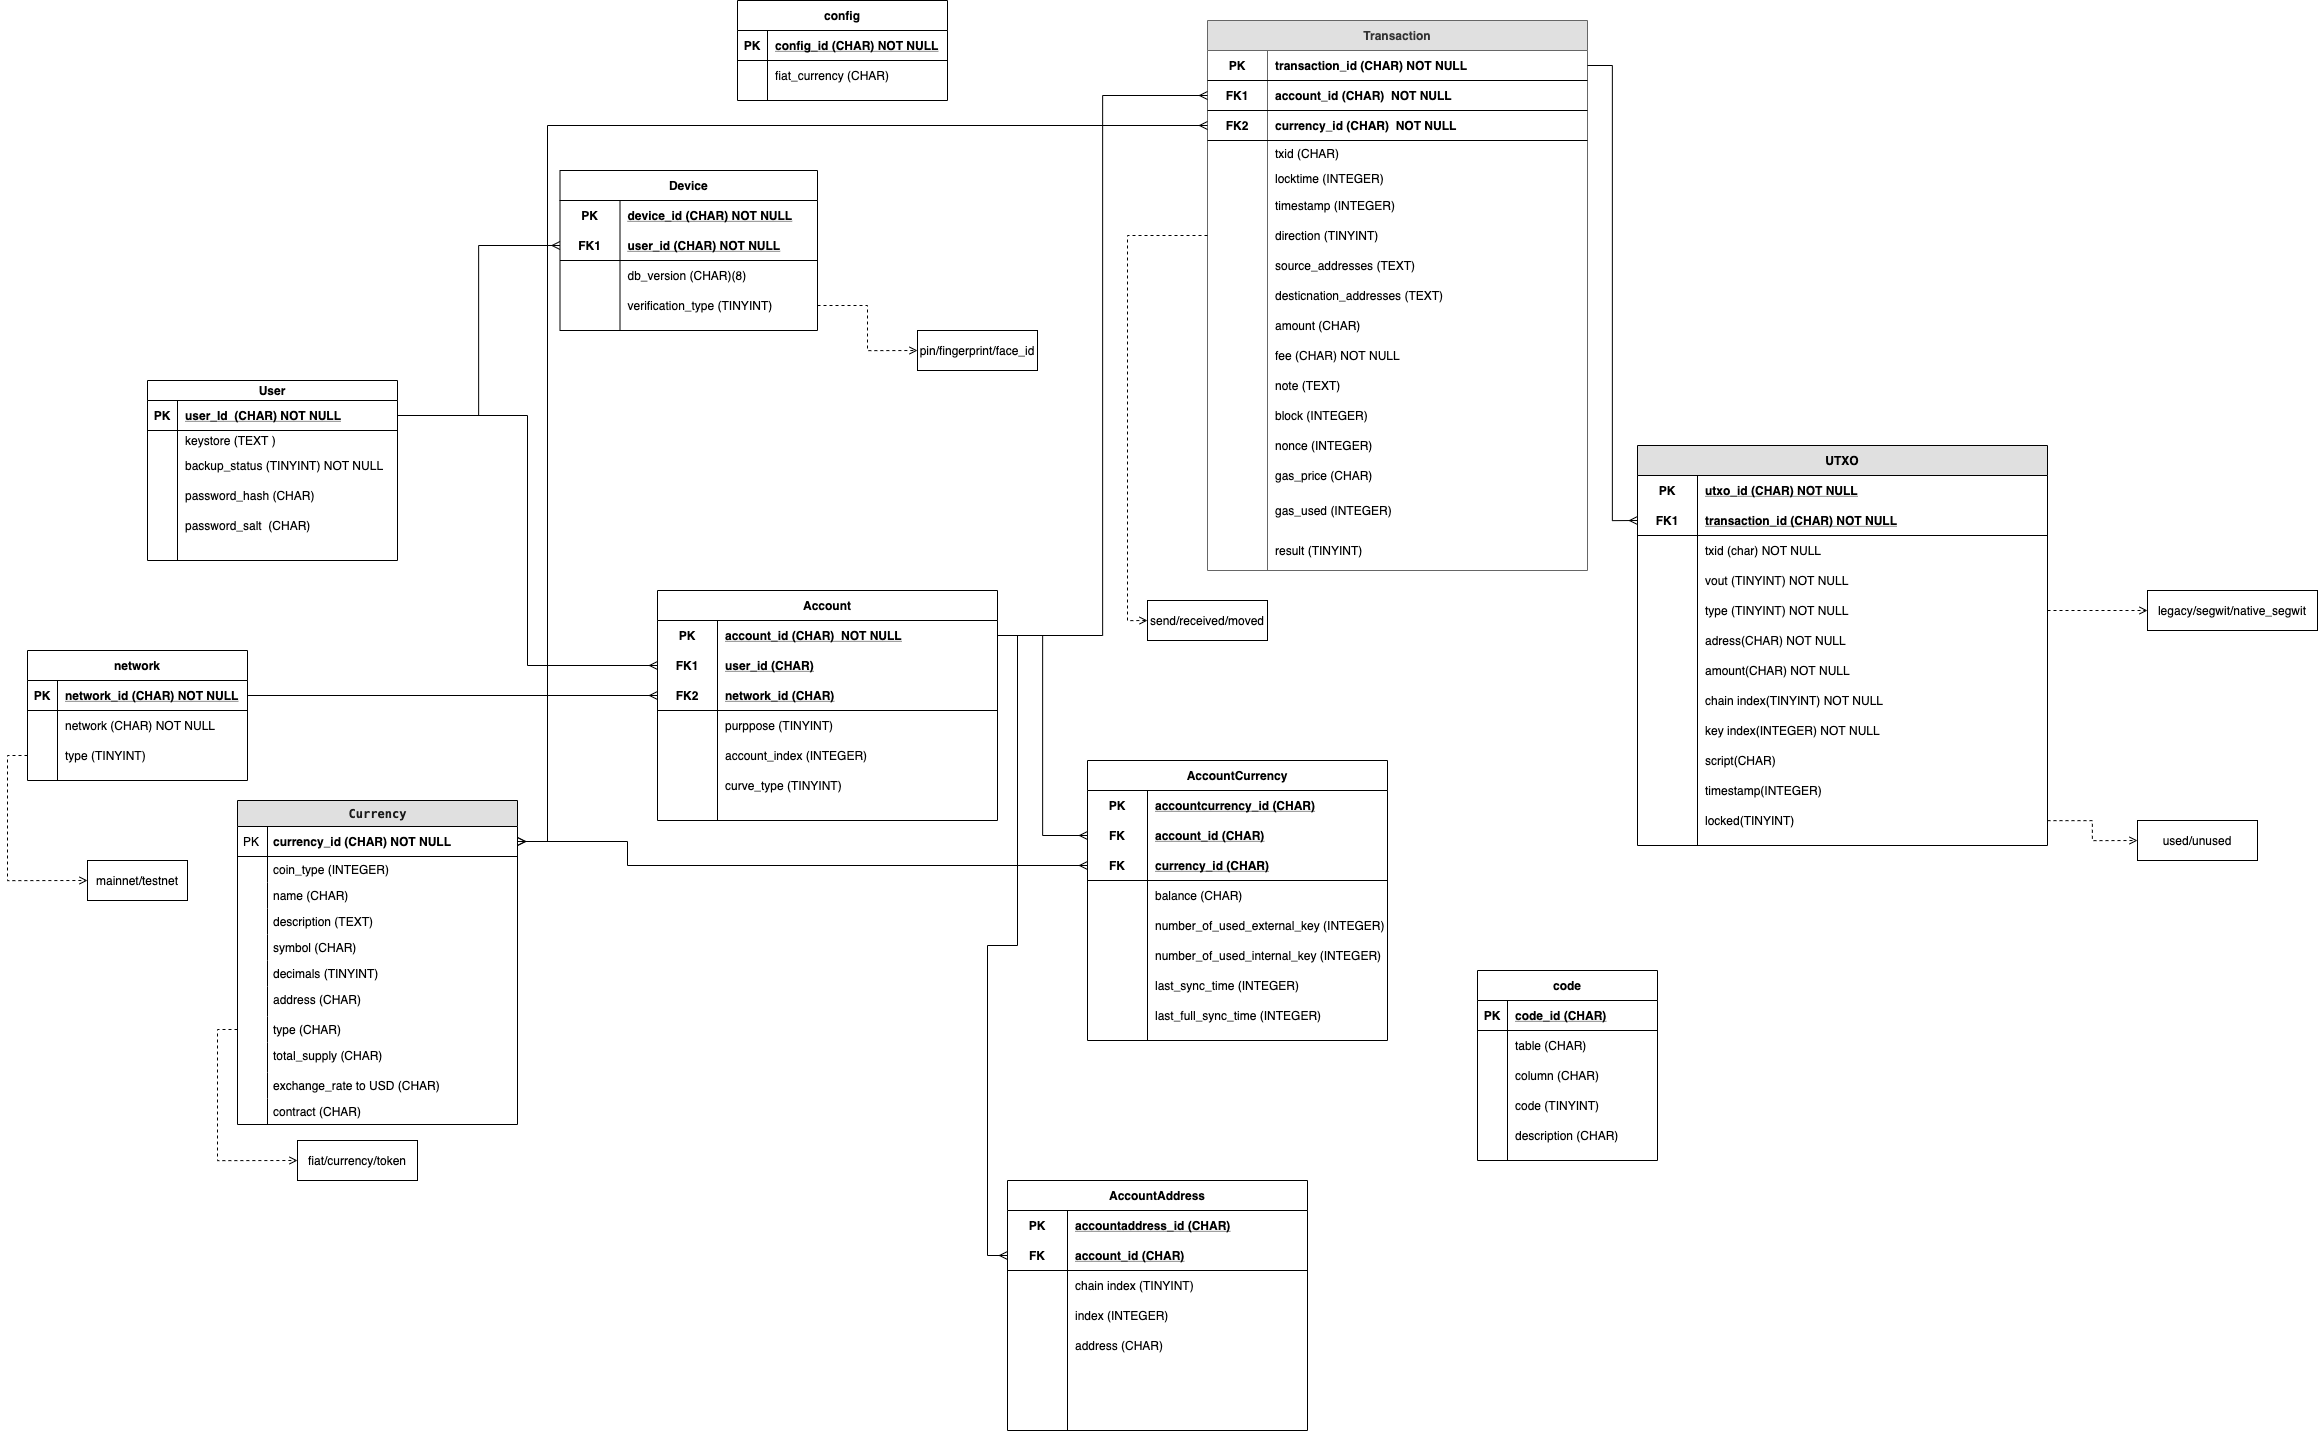
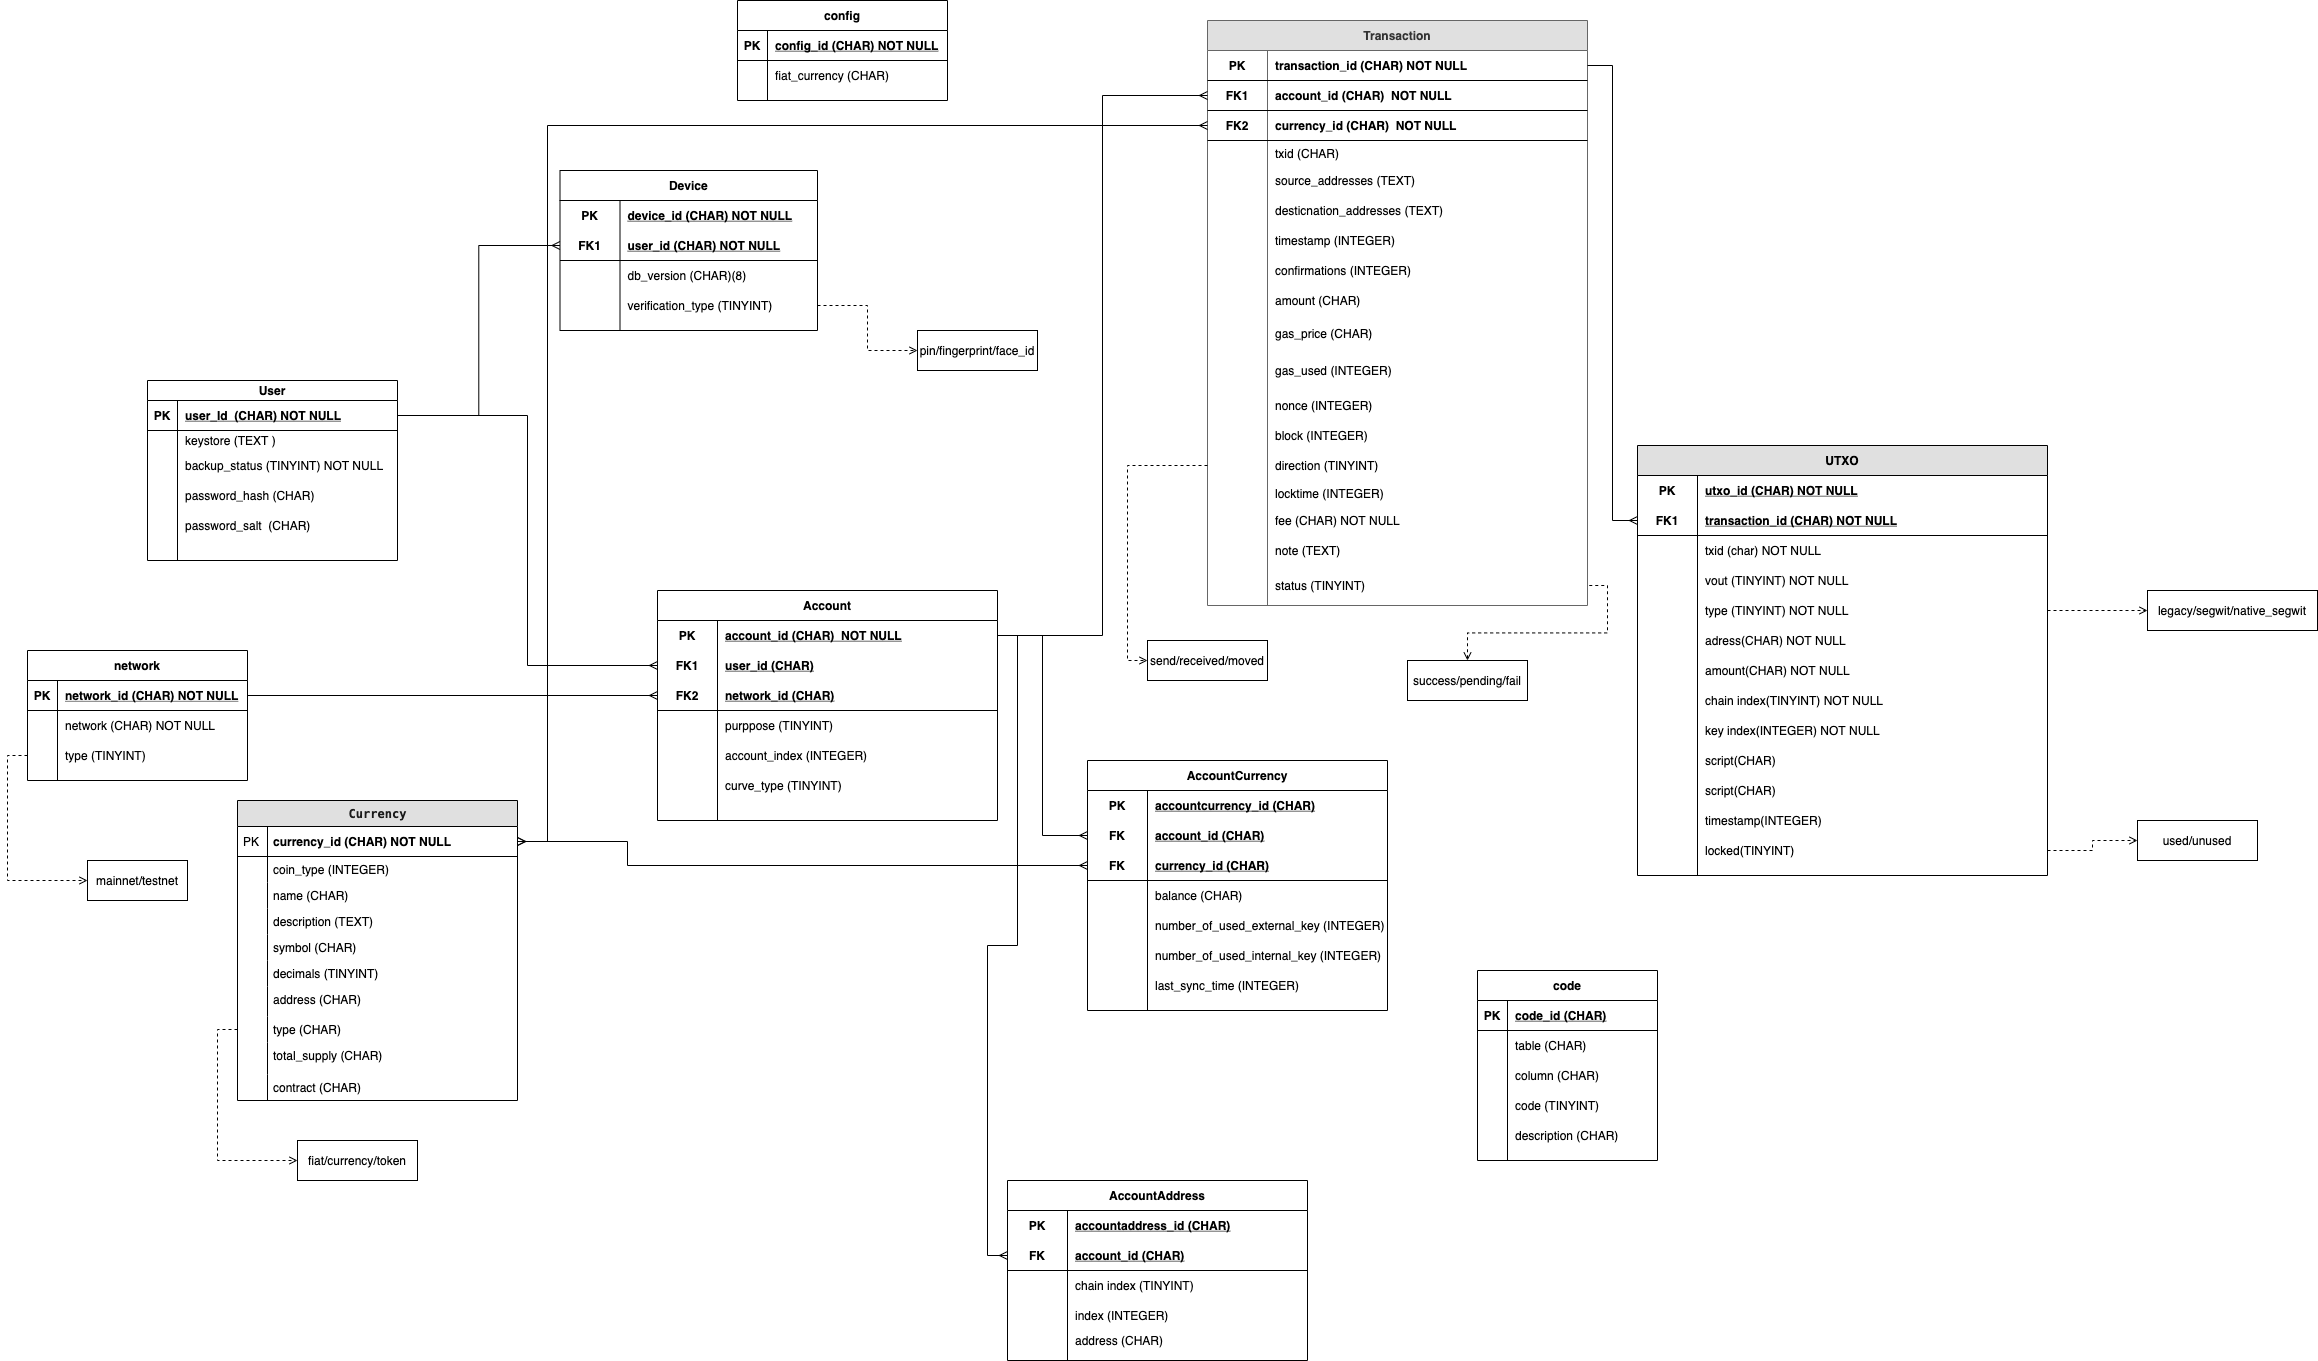
feat: update DB Schema

diff --git a/lib/models/db_transaction.model.dart b/lib/models/db_transaction.model.dart
@@ -8,7 +8,6 @@ import 'ethereum_transaction.model.dart';
 class DBTransaction {
   static const String ClassName = "_transaction";
   static const String FieldName_Id = "id";
-  static const String FieldName_Network = "network";
   static const String FieldName_AccountId = "account_id";
   static const String FieldName_CurrencyId = "currency_id";
   static const String FieldName_TxId = "txid"; // txHash
@@ -23,20 +22,15 @@ class DBTransaction {
   static const String FieldName_GasUsed = "gas_used"; // Eth
   static const String FieldName_Nonce = "nonce"; // Eth
   static const String FieldName_Block = "block"; // Eth
-  static const String FieldName_TokenId = "token_id"; // token
   static const String FieldName_BlockHeight = "block_height"; //ripple
-  static const String FieldName_Status = "status"; //ripple
   static const String FieldName_TxType = "txType"; //ripple
   static const String FieldName_Direction = "direction"; // Btc
   static const String FieldName_LockedTime = "locktime"; // Btc
   static const String FieldName_Fee = "fee"; // Btc
   static const String FieldName_Note = "note"; // Btc, Eth
-  static const String FieldName_OwnerAddress = "owner_address"; // Eth, token
-  static const String FieldName_OwnerContract = "owner_contract";
-  static const String FieldName_ConfirmedTime = "confirmed_time";
+  static const String FieldName_Status = "status";
 
   String _id;
-  int _network;
   String _accountId;
   String _currencyId;
   String _txId;
@@ -49,21 +43,16 @@ class DBTransaction {
   int _gasUsed;
   int _nonce;
   int _block; // in second
-  String _tokenId;
   int _blockHeight;
   String _txType;
   TransactionDirection _direction;
   int _locktime;
   String _fee; // in coinUnit
   Uint8List _note;
-  String _ownerAddress;
-  String _ownerContract;
-  int _confirmedTime;
   TransactionStatus _status;
 
   Map<String, dynamic> get map => {
         FieldName_Id: _id,
-        FieldName_Network: _network,
         FieldName_AccountId: _accountId,
         FieldName_CurrencyId: _currencyId,
         FieldName_TxId: _txId,
@@ -76,22 +65,17 @@ class DBTransaction {
         FieldName_GasUsed: _gasUsed,
         FieldName_Nonce: _nonce,
         FieldName_Block: _block,
-        FieldName_TokenId: _tokenId,
         FieldName_BlockHeight: _blockHeight,
         FieldName_Status: _status,
         FieldName_TxType: _txType,
         FieldName_Direction: _direction.value,
         FieldName_LockedTime: _locktime,
         FieldName_Fee: _fee,
-        FieldName_Note: _note,
-        FieldName_OwnerAddress: _ownerAddress,
-        FieldName_OwnerContract: _ownerContract,
-        FieldName_ConfirmedTime: _confirmedTime
+        FieldName_Note: _note
       };
 
   DBTransaction(
       {String id,
-      int network,
       String accountId,
       String currencyId,
       String txId,
@@ -104,19 +88,14 @@ class DBTransaction {
       int gasUsed,
       int nonce,
       int block,
-      String tokenId,
       int blockHeight,
       TransactionStatus status,
       String txType,
       TransactionDirection direction,
       int locktime,
       String fee,
-      Uint8List note,
-      String ownerAddress,
-      String ownerContract,
-      int confirmedTime})
+      Uint8List note})
       : _id = id,
-        _network = network,
         _accountId = accountId,
         _currencyId = currencyId,
         _txId = txId,
@@ -129,17 +108,13 @@ class DBTransaction {
         _gasUsed = gasUsed,
         _nonce = nonce,
         _block = block,
-        _tokenId = tokenId,
         _blockHeight = blockHeight,
         _status = status,
         _txType = txType,
         _direction = direction,
         _locktime = locktime,
         _fee = fee,
-        _note = note,
-        _ownerAddress = ownerAddress,
-        _ownerContract = ownerContract,
-        _confirmedTime = confirmedTime;
+        _note = note;
 
   DBTransaction.fromBitcoinTransaction(
     BitcoinTransaction transaction,
@@ -154,16 +129,13 @@ class DBTransaction {
         _gasUsed = null,
         _nonce = null,
         _block = null,
-        _tokenId = null,
         _blockHeight = null,
         _status = transaction.status,
         _txType = null,
         _direction = transaction.direction,
         _locktime = transaction.locktime,
         _fee = transaction.fee,
-        _note = transaction.note,
-        _ownerAddress = null,
-        _ownerContract = null;
+        _note = transaction.note;
 
   DBTransaction.fromEthereumTokenTransaction(
       EthereumTokenTransaction transaction)
@@ -178,16 +150,13 @@ class DBTransaction {
         _gasUsed = null,
         _nonce = null,
         _block = null,
-        _tokenId = transaction.tokenId,
         _blockHeight = null,
         _status = transaction.status,
         _txType = null,
         _direction = null,
         _locktime = null,
         _fee = null,
-        _note = null,
-        _ownerAddress = transaction.ownerAddress,
-        _ownerContract = transaction.ownerContract;
+        _note = null;
 
   DBTransaction.fromEthereumTransaction(EthereumTransaction transaction)
       : _id = transaction.id,
@@ -201,14 +170,11 @@ class DBTransaction {
         _gasUsed = transaction.gasUsed,
         _nonce = transaction.nonce,
         _block = transaction.block,
-        _tokenId = null,
         _blockHeight = null,
         _status = transaction.status,
         _txType = null,
         _direction = null,
         _locktime = null,
         _fee = null,
-        _note = null,
-        _ownerAddress = transaction.ownerAddress,
-        _ownerContract = null;
+        _note = null;
 }

diff --git a/lib/models/ethereum_token_transaction.model.dart b/lib/models/ethereum_token_transaction.model.dart
@@ -10,10 +10,6 @@ class EthereumTokenTransaction {
   int confirmations;
   TransactionStatus status;
   final String amount;
-  final String tokenId;
-
-  final String ownerAddress;
-  final String ownerContract;
 
   EthereumTokenTransaction({
     this.id,
@@ -24,9 +20,6 @@ class EthereumTokenTransaction {
     this.confirmations,
     this.status,
     this.amount,
-    this.tokenId, // for ERC-721
-    this.ownerAddress,
-    this.ownerContract,
   });
 
   EthereumTokenTransaction.fromMap(Map<String, dynamic> transactionMap)
@@ -37,8 +30,5 @@ class EthereumTokenTransaction {
         timestamp = transactionMap[DBTransaction.FieldName_Timestamp],
         confirmations = transactionMap[DBTransaction.FieldName_Confirmations],
         status = transactionMap[DBTransaction.FieldName_Status],
-        amount = transactionMap[DBTransaction.FieldName_Amount],
-        tokenId = transactionMap[DBTransaction.FieldName_TokenId],
-        ownerAddress = transactionMap[DBTransaction.FieldName_OwnerAddress],
-        ownerContract = transactionMap[DBTransaction.FieldName_OwnerContract];
+        amount = transactionMap[DBTransaction.FieldName_Amount];
 }

diff --git a/lib/models/transaction.model.dart b/lib/models/transaction.model.dart
@@ -138,18 +138,6 @@ class Transaction {
     var gasUsed = BigInt.from(transaction.gasUsed);
     var feeWei = gasPrice * gasUsed;
     // _fee = _account.toCoinUnit(feeWei).toString();
-
-    if (transaction.from.toLowerCase() == transaction.to.toLowerCase()) {
-      _direction = TransactionDirection.moved;
-      _address = transaction.from;
-    } else if (transaction.from.toLowerCase() ==
-        transaction.ownerAddress.toLowerCase()) {
-      _direction = TransactionDirection.sent;
-      _address = transaction.to;
-    } else {
-      _direction = TransactionDirection.received;
-      _address = transaction.from;
-    }
   }
 
   Transaction.fromEthereumTokenTransaction(
@@ -160,11 +148,6 @@ class Transaction {
     _confirmations = 1; // useless to token
     _fee = "0"; // useless to token
     _direction = TransactionDirection.sent;
-    if (transaction.ownerAddress.toLowerCase() ==
-        transaction.to.toLowerCase()) {
-      // received
-      _direction = TransactionDirection.received;
-    }
     _address = (_direction == TransactionDirection.sent)
         ? transaction.to
         : transaction.from;

diff --git a/lib/models/ethereum_transaction.model.dart b/lib/models/ethereum_transaction.model.dart
@@ -17,7 +17,6 @@ class EthereumTransaction {
   final String gasPrice; // in Wei
   final int gasUsed;
   final Uint8List data; // utf8.encode
-  final String ownerAddress;
 
   EthereumTransaction({
     this.id,
@@ -33,7 +32,6 @@ class EthereumTransaction {
     this.gasPrice,
     this.gasUsed,
     Uint8List data,
-    this.ownerAddress,
   }) : data = data ?? Uint8List(0);
 
   EthereumTransaction.fromMap(Map<String, dynamic> transactionMap)
@@ -48,6 +46,5 @@ class EthereumTransaction {
         amount = transactionMap[DBTransaction.FieldName_Amount],
         gasPrice = transactionMap[DBTransaction.FieldName_GasPrice].toString(),
         gasUsed = transactionMap[DBTransaction.FieldName_GasUsed],
-        data = transactionMap[DBTransaction.FieldName_Note],
-        ownerAddress = transactionMap[DBTransaction.FieldName_OwnerAddress];
+        data = transactionMap[DBTransaction.FieldName_Note];
 }
